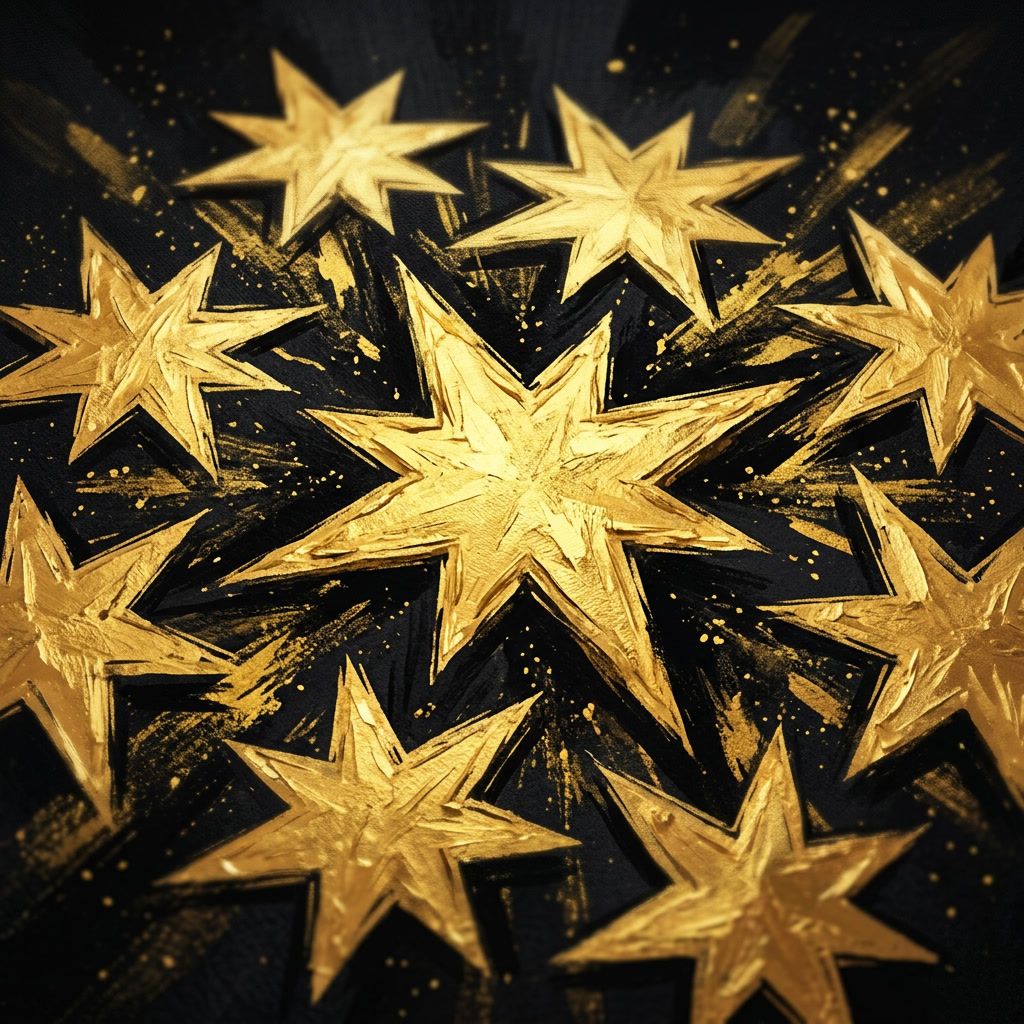
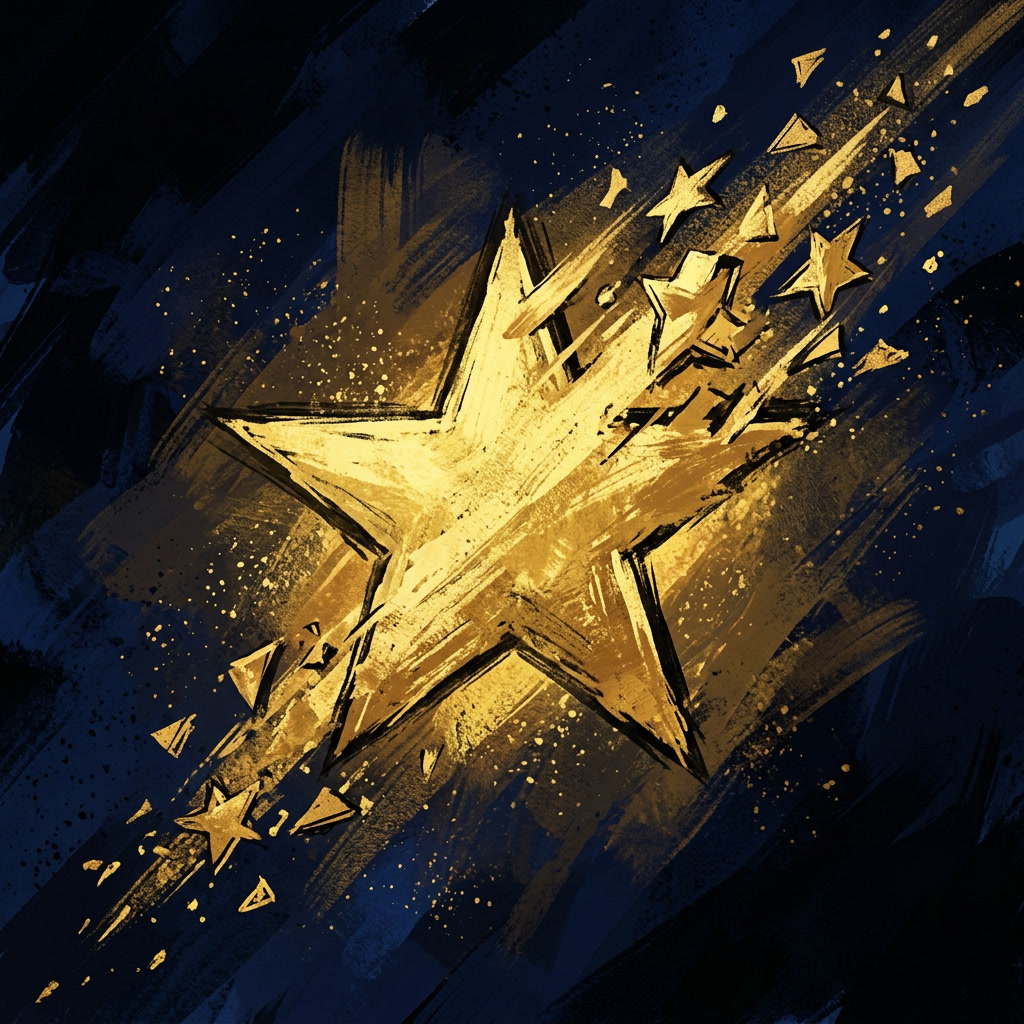
feat(ui): Add operations and update descriptions for gacha envelopes

diff --git a/packages/ui/src/fixtures/gacha/envelopes/SilkRoadSeal.ts b/packages/ui/src/fixtures/gacha/envelopes/SilkRoadSeal.ts
@@ -2,6 +2,9 @@ import {
 	GachaItemType,
 	type GachaItem5e,
 	EnvelopeFlag,
+	Field,
+	LockOperation,
+	NumberOperation,
 } from "@tme/shared/src/types/GachaItem5e";
 import { namespace } from "@tme/shared/src/namespaceConfig";
 import img from "./SilkRoadSeal.jpg";
@@ -13,14 +16,19 @@ export const silkRoadSealFixture: GachaItem5e<EnvelopeFlag> = {
 	system: {
 		quantity: 4,
 		description: {
-			value:
-				"Traded across a thousand leagues of silk and sand. Merchants swear it brings fortune to those who break its seal.",
+			value: "Traded across a thousand leagues of silk and sand. 12 Items, Locked to 1 Pull, Locked to Moderate Visibility",
 		},
 	},
 	flags: {
 		[namespace.gacha.id]: {
 			type: GachaItemType.Envelope,
-			operations: [],
+			operations: [
+				{ field: Field.RevealAmount, op: NumberOperation.Set, value: 12 },
+				{ field: Field.PickAmount, op: NumberOperation.Set, value: 1 },
+				{ field: Field.PickAmount, op: LockOperation.Lock },
+				{ field: Field.VisibilityLevel, op: NumberOperation.Set, value: 3 },
+				{ field: Field.VisibilityLevel, op: LockOperation.Lock },
+			],
 		},
 	},
 	update: async (data) => {

diff --git a/packages/ui/src/fixtures/gacha/envelopes/MoongateOffering.ts b/packages/ui/src/fixtures/gacha/envelopes/MoongateOffering.ts
@@ -2,6 +2,9 @@ import {
 	GachaItemType,
 	type GachaItem5e,
 	EnvelopeFlag,
+	Field,
+	LockOperation,
+	NumberOperation,
 } from "@tme/shared/src/types/GachaItem5e";
 import { namespace } from "@tme/shared/src/namespaceConfig";
 import img from "./MoongateOffering.jpg";
@@ -14,13 +17,18 @@ export const moongateOfferingFixture: GachaItem5e<EnvelopeFlag> = {
 		quantity: 4,
 		description: {
 			value:
-				"Left at the threshold of the moongate when the stars align. The veil between worlds grows thin for those who offer it.",
+				"Left at the threshold of the moongate when the stars align. 5 Items, 3 Pulls, Forced to be Blind",
 		},
 	},
 	flags: {
 		[namespace.gacha.id]: {
 			type: GachaItemType.Envelope,
-			operations: [],
+			operations: [
+				{ field: Field.RevealAmount, op: NumberOperation.Set, value: 5 },
+				{ field: Field.PickAmount, op: NumberOperation.Set, value: 3 },
+				{ field: Field.VisibilityLevel, op: NumberOperation.Set, value: 0 },
+				{ field: Field.VisibilityLevel, op: LockOperation.Lock },
+			],
 		},
 	},
 	update: async (data) => {

diff --git a/packages/ui/src/fixtures/gacha/envelopes/GoldenBlessingSeal.ts b/packages/ui/src/fixtures/gacha/envelopes/GoldenBlessingSeal.ts
@@ -2,6 +2,8 @@ import {
 	GachaItemType,
 	type GachaItem5e,
 	EnvelopeFlag,
+	Field,
+	NumberOperation,
 } from "@tme/shared/src/types/GachaItem5e";
 import { namespace } from "@tme/shared/src/namespaceConfig";
 import img from "./GoldenBlessingSeal.jpg";
@@ -14,13 +16,18 @@ export const goldenBlessingSealFixture: GachaItem5e<EnvelopeFlag> = {
 		quantity: 4,
 		description: {
 			value:
-				"Pressed in gold leaf and sealed with a prayer. A vessel for the most auspicious of draws.",
+				"Pressed in gold leaf and sealed with a prayer. 3 Items, 1 Pull, Moderate Visibility, +0.5 Luck to Rarity",
 		},
 	},
 	flags: {
 		[namespace.gacha.id]: {
 			type: GachaItemType.Envelope,
-			operations: [],
+			operations: [
+				{ field: Field.RevealAmount, op: NumberOperation.Set, value: 3 },
+				{ field: Field.PickAmount, op: NumberOperation.Set, value: 1 },
+				{ field: Field.VisibilityLevel, op: NumberOperation.Set, value: 3 },
+				{ field: Field.RarityLuck, op: NumberOperation.Add, value: 0.5 },
+			],
 		},
 	},
 	update: async (data) => {

diff --git a/packages/ui/src/fixtures/gacha/envelopes/FestivalSleeve.ts b/packages/ui/src/fixtures/gacha/envelopes/FestivalSleeve.ts
@@ -2,6 +2,8 @@ import {
 	GachaItemType,
 	type GachaItem5e,
 	EnvelopeFlag,
+	Field,
+	NumberOperation,
 } from "@tme/shared/src/types/GachaItem5e";
 import { namespace } from "@tme/shared/src/namespaceConfig";
 import img from "./FestivalSleeve.jpg";
@@ -14,13 +16,17 @@ export const festivalSleeveFixture: GachaItem5e<EnvelopeFlag> = {
 		quantity: 4,
 		description: {
 			value:
-				"Stitched with lantern-thread and offered at the height of the harvest moon. A sleeve wide enough to hold many gifts.",
+				"Stitched with lantern-thread and offered at the height of the harvest moon. 3 Items, 3 Pulls, Moderate Visibility",
 		},
 	},
 	flags: {
 		[namespace.gacha.id]: {
 			type: GachaItemType.Envelope,
-			operations: [],
+			operations: [
+				{ field: Field.RevealAmount, op: NumberOperation.Set, value: 3 },
+				{ field: Field.PickAmount, op: NumberOperation.Set, value: 3 },
+				{ field: Field.VisibilityLevel, op: NumberOperation.Set, value: 3 },
+			],
 		},
 	},
 	update: async (data) => {

diff --git a/documentation/domain/GachaNotes.md b/documentation/domain/GachaNotes.md
@@ -3,17 +3,19 @@
 **Pity** Number // Full Integer, each pity stack increased rarity luck by n amount.
 **Equipment Pool Whitelist** Array // Available Equipment
 **Equipment Pool Blacklist** Array // Blocked Equipment
-**Rarity Luck** Float // Changes the chance to draw rarity
-**Float Luck** Float // Changes the luck generation on items
-**Reveal** Number // How many items to reveal to the player
-**Pick** Number // How many items the user can pick in total
+**Rarity Luck** Float // Changes the chance to draw rarity => Luck for Rarity
+**Float Luck** Float // Changes the luck generation on items => Luck for Modifiers
+**Reveal** Number // How many items to reveal to the player => Reveals
+**Pick** Number // How many items the user can pick in total => Pulls
 
-This is now a number, 0 | 1 | 2 | 3 | 4
+This is now a number, 0 | 1 | 2 | 3 | 4 => Blind | Low | Moderate | High | Perfect Visibility
 **Nothing Visible**
 **Shown Image** User can see the image of the item before picking
 **Shown Name** User can see the name of the item before picking
 **Shown Type** User can see the type of the item before picking
 **Shown Rarity** User can see the rarity of the item before picking
+
+Wording for locked: locked in, locked, forced
 
 # Operations
 